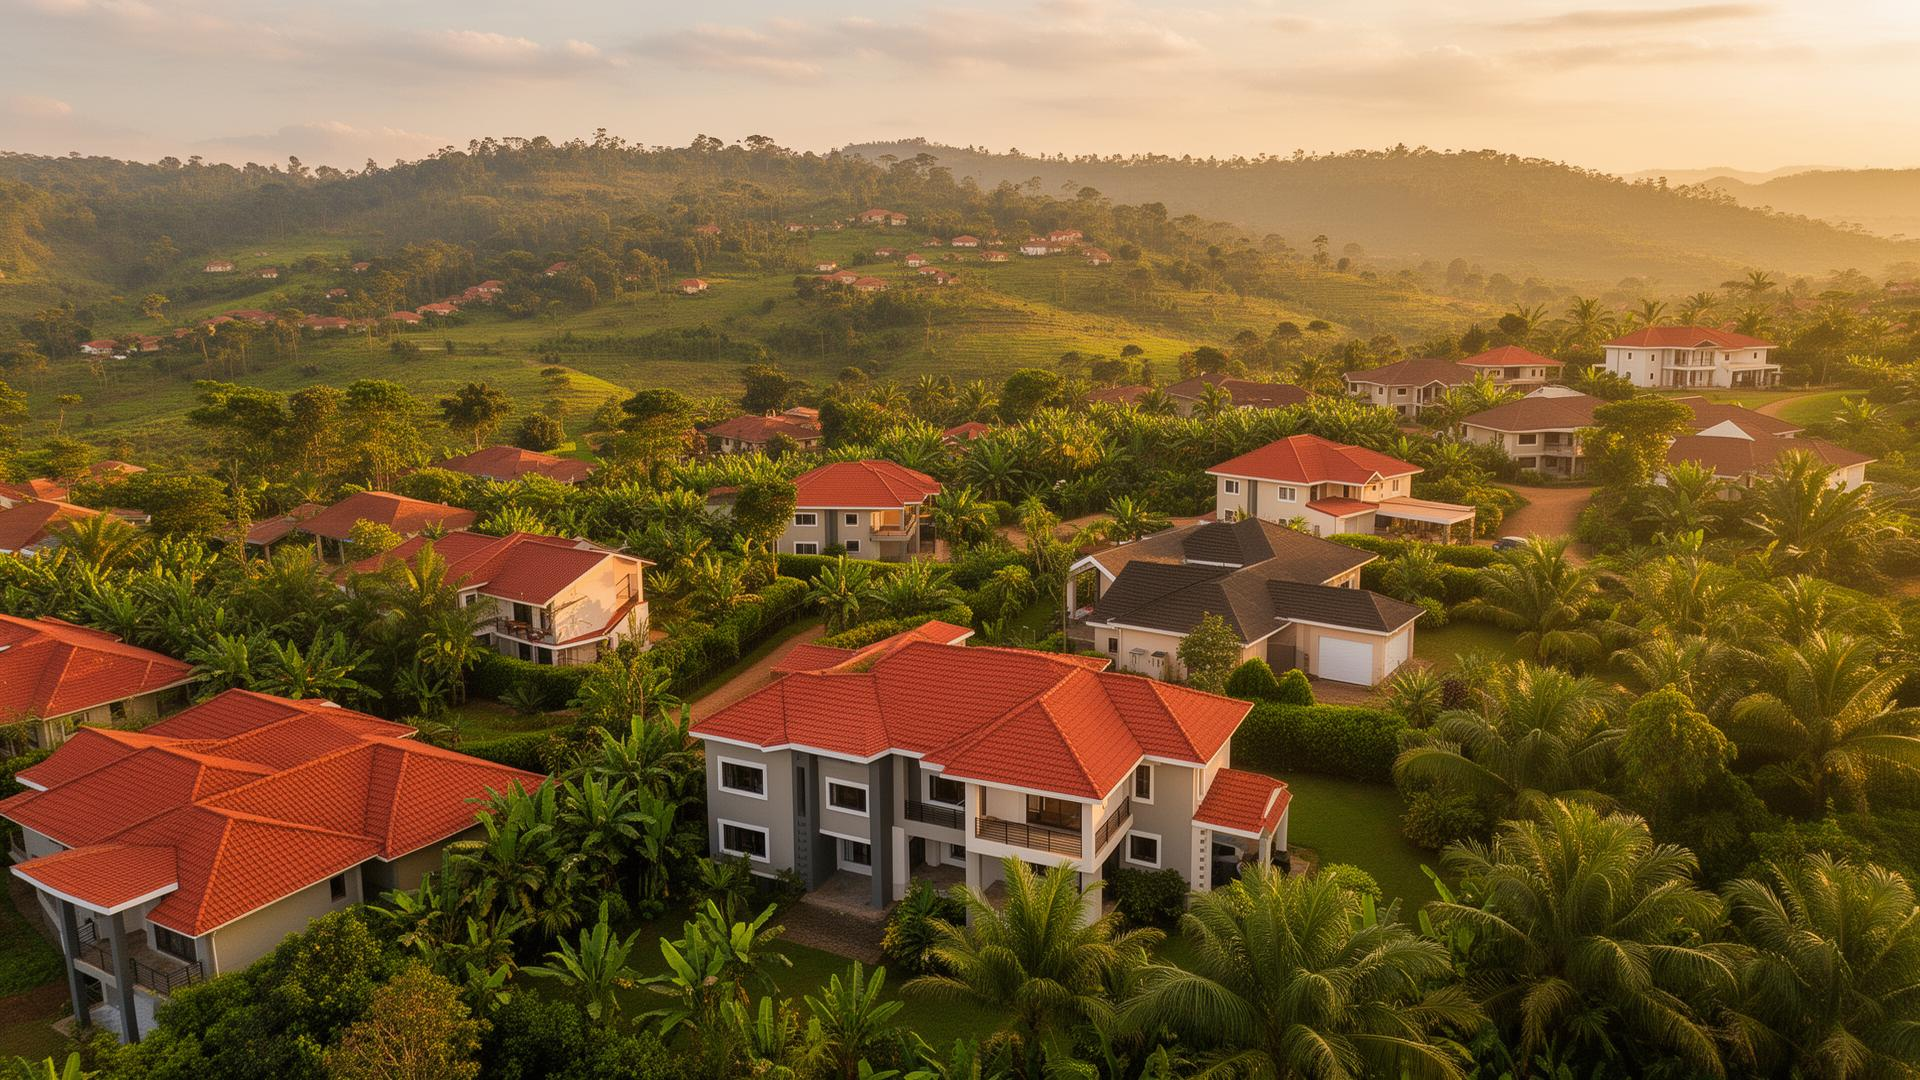
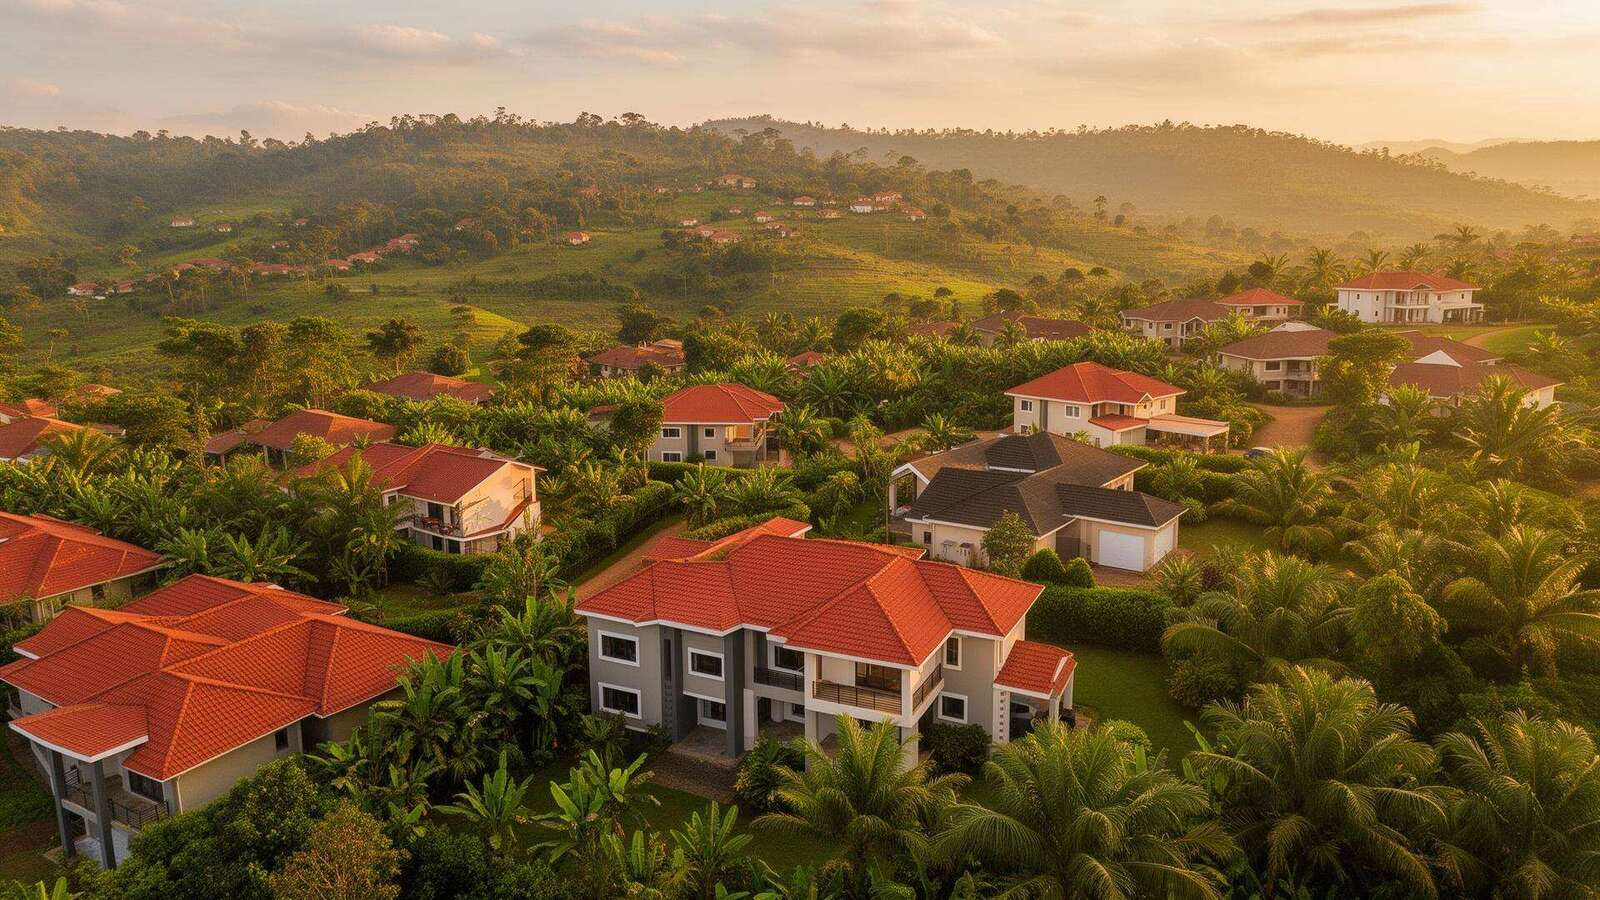
perf: lazy-load routes, split vendor chunks, batch bookmark queries, debounce price filters

diff --git a/src/App.tsx b/src/App.tsx
@@ -5,65 +5,66 @@ import { QueryClient, QueryClientProvider } from "@tanstack/react-query";
 import { BrowserRouter, Routes, Route } from "react-router-dom";
 import { AuthProvider } from "@/contexts/AuthContext";
 import { ThemeProvider } from "next-themes";
-import { Component, ErrorInfo, ReactNode } from "react";
+import { Component, ErrorInfo, ReactNode, Suspense, lazy } from "react";
 import { usePageViewTracking } from "@/services/tracking";
-import Index from "./pages/Index";
-import LoginPage from "./pages/Login";
-import RegisterPage from "./pages/Register";
-import PropertiesPage from "./pages/Properties";
-import PropertyDetailPage from "./pages/PropertyDetail";
-import ManagerDashboard from "./pages/ManagerDashboard";
-import BoostPage from "./pages/BoostPage";
-import TenantDashboard from "./pages/TenantDashboard";
-import SuperAdminDashboard from "./pages/SuperAdminDashboard";
-import ManagerDetail from "./pages/ManagerDetail";
-import AcceptInvitePage from "./pages/AcceptInvite";
 import ProtectedRoute from "./components/ProtectedRoute";
-import AboutPage from "./pages/About";
-import ContactPage from "./pages/Contact";
-import PrivacyPage from "./pages/Privacy";
-import TermsPage from "./pages/Terms";
-import ForgotPassword from "./pages/ForgotPassword";
-import ForgotPin from "./pages/ForgotPin";
-import PhoneAuth from "./pages/PhoneAuth";
-import GettingStarted from "./pages/GettingStarted";
-import PhoneOtp from "./pages/PhoneOtp";
-import PhonePinSetup from "./pages/PhonePinSetup";
-import PhoneSignin from "./pages/PhoneSignin";
-import ChangePin from "./pages/ChangePin";
-import Account from "./pages/Account";
-import EditProfile from "./pages/EditProfile";
-import ChangePassword from "./pages/ChangePassword";
-import ManagerTenancies from "./pages/ManagerTenancies";
-import ManagerCreateTenancy from "./pages/ManagerCreateTenancy";
-import ManagerTenancyDetail from "./pages/ManagerTenancyDetail";
-import ManagerEditTenancy from "./pages/ManagerEditTenancy";
-import ManagerReports from "./pages/ManagerReports";
-import TenantPayments from "./pages/TenantPayments";
-import TenantPaymentDetail from "./pages/TenantPaymentDetail";
-import ManagerSubscription from "./pages/ManagerSubscription";
-import PaymentStatus from "./pages/PaymentStatus";
-import AgreementView from "./pages/AgreementView";
-import AgreementHistory from "./pages/AgreementHistory";
-import Notifications from "./pages/Notifications";
-import CreateProperty from "./pages/CreateProperty";
-import EditProperty from "./pages/EditProperty";
-import TenantBrowse from "./pages/TenantBrowse";
-import Onboarding from "./pages/Onboarding";
-import NotFound from "./pages/NotFound";
-import ManagerPaymentVerifications from "./pages/ManagerPaymentVerifications";
-import ManagerPaymentDetail from "./pages/ManagerPaymentDetail";
-import ManagerCreateAgreement from "./pages/ManagerCreateAgreement";
-import TenantSubmitPayment from "./pages/TenantSubmitPayment";
-import GuestExplore from "./pages/GuestExplore";
-import ManagerProperties from "./pages/ManagerProperties";
-import ManagerPaymentHistory from "./pages/ManagerPaymentHistory";
-import TenantMyTenancy from "./pages/TenantMyTenancy";
-import ManagerTenantDetail from "./pages/ManagerTenantDetail";
-import AgreementPreview from "./pages/AgreementPreview";
-import AgreementSummary from "./pages/AgreementSummary";
 import DashboardLayout from "./components/DashboardLayout";
 import MobileAppBanner from "./components/MobileAppBanner";
+
+const Index = lazy(() => import("./pages/Index"));
+const LoginPage = lazy(() => import("./pages/Login"));
+const RegisterPage = lazy(() => import("./pages/Register"));
+const PropertiesPage = lazy(() => import("./pages/Properties"));
+const PropertyDetailPage = lazy(() => import("./pages/PropertyDetail"));
+const ManagerDashboard = lazy(() => import("./pages/ManagerDashboard"));
+const BoostPage = lazy(() => import("./pages/BoostPage"));
+const TenantDashboard = lazy(() => import("./pages/TenantDashboard"));
+const SuperAdminDashboard = lazy(() => import("./pages/SuperAdminDashboard"));
+const ManagerDetail = lazy(() => import("./pages/ManagerDetail"));
+const AcceptInvitePage = lazy(() => import("./pages/AcceptInvite"));
+const AboutPage = lazy(() => import("./pages/About"));
+const ContactPage = lazy(() => import("./pages/Contact"));
+const PrivacyPage = lazy(() => import("./pages/Privacy"));
+const TermsPage = lazy(() => import("./pages/Terms"));
+const ForgotPassword = lazy(() => import("./pages/ForgotPassword"));
+const ForgotPin = lazy(() => import("./pages/ForgotPin"));
+const PhoneAuth = lazy(() => import("./pages/PhoneAuth"));
+const GettingStarted = lazy(() => import("./pages/GettingStarted"));
+const PhoneOtp = lazy(() => import("./pages/PhoneOtp"));
+const PhonePinSetup = lazy(() => import("./pages/PhonePinSetup"));
+const PhoneSignin = lazy(() => import("./pages/PhoneSignin"));
+const ChangePin = lazy(() => import("./pages/ChangePin"));
+const Account = lazy(() => import("./pages/Account"));
+const EditProfile = lazy(() => import("./pages/EditProfile"));
+const ChangePassword = lazy(() => import("./pages/ChangePassword"));
+const ManagerTenancies = lazy(() => import("./pages/ManagerTenancies"));
+const ManagerCreateTenancy = lazy(() => import("./pages/ManagerCreateTenancy"));
+const ManagerTenancyDetail = lazy(() => import("./pages/ManagerTenancyDetail"));
+const ManagerEditTenancy = lazy(() => import("./pages/ManagerEditTenancy"));
+const ManagerReports = lazy(() => import("./pages/ManagerReports"));
+const TenantPayments = lazy(() => import("./pages/TenantPayments"));
+const TenantPaymentDetail = lazy(() => import("./pages/TenantPaymentDetail"));
+const ManagerSubscription = lazy(() => import("./pages/ManagerSubscription"));
+const PaymentStatus = lazy(() => import("./pages/PaymentStatus"));
+const AgreementView = lazy(() => import("./pages/AgreementView"));
+const AgreementHistory = lazy(() => import("./pages/AgreementHistory"));
+const Notifications = lazy(() => import("./pages/Notifications"));
+const CreateProperty = lazy(() => import("./pages/CreateProperty"));
+const EditProperty = lazy(() => import("./pages/EditProperty"));
+const TenantBrowse = lazy(() => import("./pages/TenantBrowse"));
+const Onboarding = lazy(() => import("./pages/Onboarding"));
+const NotFound = lazy(() => import("./pages/NotFound"));
+const ManagerPaymentVerifications = lazy(() => import("./pages/ManagerPaymentVerifications"));
+const ManagerPaymentDetail = lazy(() => import("./pages/ManagerPaymentDetail"));
+const ManagerCreateAgreement = lazy(() => import("./pages/ManagerCreateAgreement"));
+const TenantSubmitPayment = lazy(() => import("./pages/TenantSubmitPayment"));
+const GuestExplore = lazy(() => import("./pages/GuestExplore"));
+const ManagerProperties = lazy(() => import("./pages/ManagerProperties"));
+const ManagerPaymentHistory = lazy(() => import("./pages/ManagerPaymentHistory"));
+const TenantMyTenancy = lazy(() => import("./pages/TenantMyTenancy"));
+const ManagerTenantDetail = lazy(() => import("./pages/ManagerTenantDetail"));
+const AgreementPreview = lazy(() => import("./pages/AgreementPreview"));
+const AgreementSummary = lazy(() => import("./pages/AgreementSummary"));
 
 class ErrorBoundary extends Component<{ children: ReactNode }, { error: Error | null }> {
   state = { error: null };
@@ -92,6 +93,14 @@ class ErrorBoundary extends Component<{ children: ReactNode }, { error: Error | 
 
 function PageViewTracker() { usePageViewTracking(); return null; }
 
+function PageLoader() {
+  return (
+    <div className="min-h-screen flex items-center justify-center bg-background">
+      <div className="w-10 h-10 border-4 border-primary border-t-transparent rounded-full animate-spin" />
+    </div>
+  );
+}
+
 const queryClient = new QueryClient();
 
 const App = () => (
@@ -104,6 +113,7 @@ const App = () => (
         <BrowserRouter>
           <PageViewTracker />
           <ErrorBoundary>
+            <Suspense fallback={<PageLoader />}>
             <Routes>
               {/* Public routes (no sidebar) */}
               <Route path="/" element={<Index />} />
@@ -170,6 +180,7 @@ const App = () => (
               {/* ADD ALL CUSTOM ROUTES ABOVE THE CATCH-ALL "*" ROUTE */}
               <Route path="*" element={<NotFound />} />
             </Routes>
+            </Suspense>
             <MobileAppBanner />
           </ErrorBoundary>
         </BrowserRouter>

diff --git a/src/components/PropertyCard.tsx b/src/components/PropertyCard.tsx
@@ -1,8 +1,7 @@
-import { useState, useEffect } from 'react';
+import { useState } from 'react';
 import { Link } from 'react-router-dom';
 import { MapPin, Bed, Bath, Sofa, Sparkles, Heart } from 'lucide-react';
 import { Badge } from '@/components/ui/badge';
-import { Database } from '@/integrations/supabase/types';
 import { isPropertyBoosted } from '@/services/property-boosts';
 import { supabase } from '@/integrations/supabase/client';
 import { useAuth } from '@/contexts/AuthContext';
@@ -40,31 +39,35 @@ function formatUGX(amount: number) {
 interface PropertyCardProps {
   property: Property;
   index?: number;
+  /** Pre-batched bookmark set for this page's list; when provided, no per-card query runs. */
+  bookmarks?: Set<string>;
+  onToggleBookmark?: (propertyId: string, next: boolean) => void;
 }
 
-function PropertyCard({ property, index = 0 }: PropertyCardProps) {
+function PropertyCard({ property, index = 0, bookmarks, onToggleBookmark }: PropertyCardProps) {
   const imageUrl = property.images?.[0] || fallbackImages[index % 3];
   const isBoosted = isPropertyBoosted(property);
   const { user } = useAuth();
   const [bookmarked, setBookmarked] = useState(false);
   const [toggling, setToggling] = useState(false);
 
-  useEffect(() => {
-    if (!user) return;
-    supabase.from('property_bookmarks').select('id').eq('user_id', user.id).eq('property_id', property.id).maybeSingle().then(({ data }) => setBookmarked(!!data));
-  }, [user, property.id]);
+  const isBookmarked = bookmarks ? bookmarks.has(property.id) : bookmarked;
 
   const toggleBookmark = async (e: React.MouseEvent) => {
     e.preventDefault();
     e.stopPropagation();
     if (!user || toggling) return;
     setToggling(true);
-    if (bookmarked) {
-      await supabase.from('property_bookmarks').delete().eq('user_id', user.id).eq('property_id', property.id);
+    if (onToggleBookmark) {
+      await onToggleBookmark(property.id, !isBookmarked);
     } else {
-      await supabase.from('property_bookmarks').insert({ user_id: user.id, property_id: property.id });
+      if (isBookmarked) {
+        await supabase.from('property_bookmarks').delete().eq('user_id', user.id).eq('property_id', property.id);
+      } else {
+        await supabase.from('property_bookmarks').insert({ user_id: user.id, property_id: property.id });
+      }
+      setBookmarked(!isBookmarked);
     }
-    setBookmarked(!bookmarked);
     setToggling(false);
   };
 
@@ -96,7 +99,7 @@ function PropertyCard({ property, index = 0 }: PropertyCardProps) {
           <div className="absolute top-3 right-3 flex flex-col gap-2 items-end">
             {user && (
               <button onClick={toggleBookmark} className="h-8 w-8 rounded-full bg-black/40 hover:bg-black/60 flex items-center justify-center transition-colors">
-                <Heart className={`h-4 w-4 ${bookmarked ? 'fill-red-500 text-red-500' : 'text-white'}`} />
+                <Heart className={`h-4 w-4 ${isBookmarked ? 'fill-red-500 text-red-500' : 'text-white'}`} />
               </button>
             )}
             <Badge

diff --git a/src/pages/Properties.tsx b/src/pages/Properties.tsx
@@ -8,6 +8,7 @@ import { Select, SelectContent, SelectItem, SelectTrigger, SelectValue } from '@
 import { Label } from '@/components/ui/label';
 import { Search, SlidersHorizontal, MapPin } from 'lucide-react';
 import Footer from '@/components/Footer';
+import { usePropertyBookmarks } from '@/hooks/usePropertyBookmarks';
 
 const API = import.meta.env.VITE_API_URL || '';
 
@@ -37,9 +38,20 @@ export default function PropertiesPage() {
   const [maxPrice, setMaxPrice] = useState(searchParams.get('max') || '');
   const [stateInput, setStateInput] = useState(state);
 
+  // Debounce the numeric price inputs so typing "150000" fires one request,
+  // not six.
+  const [priceFilters, setPriceFilters] = useState({ min: minPrice, max: maxPrice });
+  useEffect(() => {
+    const t = setTimeout(() => setPriceFilters({ min: minPrice, max: maxPrice }), 400);
+    return () => clearTimeout(t);
+  }, [minPrice, maxPrice]);
+
   useEffect(() => {
     fetchProperties();
-  }, [state, propType, period, minPrice, maxPrice]);
+    // eslint-disable-next-line react-hooks/exhaustive-deps
+  }, [state, propType, period, priceFilters.min, priceFilters.max]);
+
+  const { bookmarks, toggle } = usePropertyBookmarks(properties.map(p => p.id));
 
   const fetchProperties = async () => {
     setLoading(true);
@@ -47,8 +59,8 @@ export default function PropertiesPage() {
     if (state) params.set('state', state);
     if (propType !== 'all') params.set('property_type', propType);
     if (period !== 'all') params.set('rent_period', period);
-    if (minPrice) params.set('min_price', minPrice);
-    if (maxPrice) params.set('max_price', maxPrice);
+    if (priceFilters.min) params.set('min_price', priceFilters.min);
+    if (priceFilters.max) params.set('max_price', priceFilters.max);
     params.set('limit', '50');
 
     try {
@@ -196,7 +208,7 @@ export default function PropertiesPage() {
               </div>
             ) : properties.length > 0 ? (
               <div className="grid sm:grid-cols-2 xl:grid-cols-3 gap-5">
-                {properties.map((p, i) => <PropertyCard key={p.id} property={p} index={i} />)}
+                {properties.map((p, i) => <PropertyCard key={p.id} property={p} index={i} bookmarks={bookmarks} onToggleBookmark={toggle} />)}
               </div>
             ) : (
               <div className="text-center py-20 text-muted-foreground">

diff --git a/src/pages/GuestExplore.tsx b/src/pages/GuestExplore.tsx
@@ -9,6 +9,7 @@ import {
 } from '@/components/ui/select';
 import Footer from '@/components/Footer';
 import { Search, SlidersHorizontal, RotateCcw, Compass, MapPin } from 'lucide-react';
+import { usePropertyBookmarks } from '@/hooks/usePropertyBookmarks';
 
 const API = import.meta.env.VITE_API_URL || '';
 
@@ -71,13 +72,22 @@ export default function GuestExplore() {
   const [selectedAmenities, setSelectedAmenities] = useState<string[]>([]);
   const [showFilters, setShowFilters] = useState(false);
 
+  // Debounce price inputs so typing doesn't fire a request per keystroke.
+  const [debouncedPrice, setDebouncedPrice] = useState({ min: minPrice, max: maxPrice });
+  useEffect(() => {
+    const t = setTimeout(() => setDebouncedPrice({ min: minPrice, max: maxPrice }), 400);
+    return () => clearTimeout(t);
+  }, [minPrice, maxPrice]);
+
+  const { bookmarks, toggle } = usePropertyBookmarks(properties.map(p => p.id));
+
   // backend-side filters → API params
   const apiParams = useMemo(() => ({
     state: district || undefined,
     property_type: propertyType || undefined,
-    min_price: minPrice ? Number(minPrice) : undefined,
-    max_price: maxPrice ? Number(maxPrice) : undefined,
-  }), [district, propertyType, minPrice, maxPrice]);
+    min_price: debouncedPrice.min ? Number(debouncedPrice.min) : undefined,
+    max_price: debouncedPrice.max ? Number(debouncedPrice.max) : undefined,
+  }), [district, propertyType, debouncedPrice.min, debouncedPrice.max]);
 
   const fetchProperties = useCallback(async () => {
     setLoading(true);
@@ -354,7 +364,7 @@ export default function GuestExplore() {
           </div>
         ) : (
           <div className="grid sm:grid-cols-2 xl:grid-cols-3 gap-5">
-            {filtered.map((p, i) => <PropertyCard key={p.id} property={p} index={i} />)}
+            {filtered.map((p, i) => <PropertyCard key={p.id} property={p} index={i} bookmarks={bookmarks} onToggleBookmark={toggle} />)}
           </div>
         )}
       </div>

diff --git a/src/hooks/usePropertyBookmarks.ts b/src/hooks/usePropertyBookmarks.ts
@@ -1,0 +1,46 @@
+import { useCallback, useEffect, useState } from 'react';
+import { supabase } from '@/integrations/supabase/client';
+import { useAuth } from '@/contexts/AuthContext';
+
+// Batched bookmark state for a list page: ONE query for the whole page
+// instead of one query per card.
+export function usePropertyBookmarks(propertyIds: string[]) {
+  const { user } = useAuth();
+  const [bookmarks, setBookmarks] = useState<Set<string>>(new Set());
+
+  const idsKey = propertyIds.join('|');
+
+  useEffect(() => {
+    setBookmarks(new Set());
+    if (!user || !idsKey) return undefined;
+    let cancelled = false;
+    supabase
+      .from('property_bookmarks')
+      .select('property_id')
+      .eq('user_id', user.id)
+      .in('property_id', propertyIds)
+      .then(({ data }) => {
+        if (!cancelled) setBookmarks(new Set((data || []).map(r => r.property_id)));
+      })
+      .catch(() => {});
+    return () => { cancelled = true; };
+    // eslint-disable-next-line react-hooks/exhaustive-deps
+  }, [user, idsKey]);
+
+  const toggle = useCallback(async (propertyId: string, next: boolean) => {
+    if (!user) return;
+    if (next) {
+      await supabase.from('property_bookmarks').insert({ user_id: user.id, property_id: propertyId });
+    } else {
+      await supabase.from('property_bookmarks').delete().eq('user_id', user.id).eq('property_id', propertyId);
+    }
+    setBookmarks(prev => {
+      const nextSet = new Set(prev);
+      if (next) nextSet.add(propertyId);
+      else nextSet.delete(propertyId);
+      return nextSet;
+    });
+  }, [user]);
+
+  return { bookmarks, toggle };
+}

diff --git a/src/pages/Index.tsx b/src/pages/Index.tsx
@@ -106,7 +106,7 @@ export default function HomePage() {
 
       {/* HERO */}
       <section className="relative min-h-[660px] flex items-center justify-center">
-        <img src={heroBg} alt="" className="absolute inset-0 w-full h-full object-cover" />
+        <img src={heroBg} alt="" fetchPriority="high" className="absolute inset-0 w-full h-full object-cover" />
         <div className="absolute inset-0 gradient-hero" />
         <div className="relative z-10 text-center px-4 max-w-4xl mx-auto pt-8 md:pt-0">
           <Badge className="bg-accent text-accent-foreground mb-4 text-xs font-semibold tracking-widest uppercase px-3 py-1.5 whitespace-normal text-center leading-snug max-w-xs sm:max-w-none mx-auto block sm:inline-block">

diff --git a/vite.config.ts b/vite.config.ts
@@ -35,4 +35,20 @@ export default defineConfig({
       "@": path.resolve(__dirname, "./src"),
     },
   },
+  build: {
+    rollupOptions: {
+      output: {
+        manualChunks(id: string) {
+          if (id.includes("node_modules")) {
+            if (id.includes("recharts")) return "charts";
+            if (id.includes("react-router")) return "router";
+            if (id.includes("@tanstack")) return "query";
+            if (id.includes("date-fns")) return "dates";
+            if (id.includes("lucide")) return "icons";
+            return "vendor";
+          }
+        },
+      },
+    },
+  },
 });
